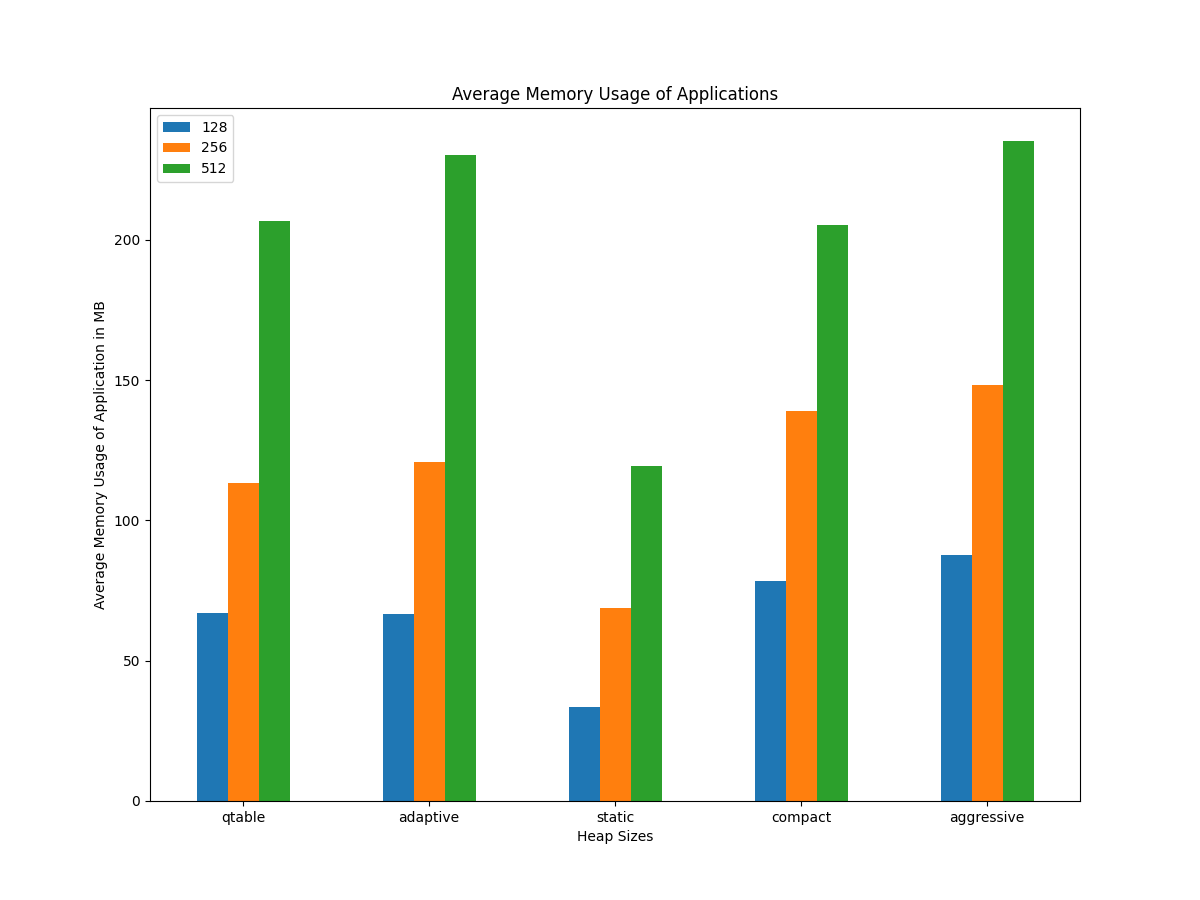
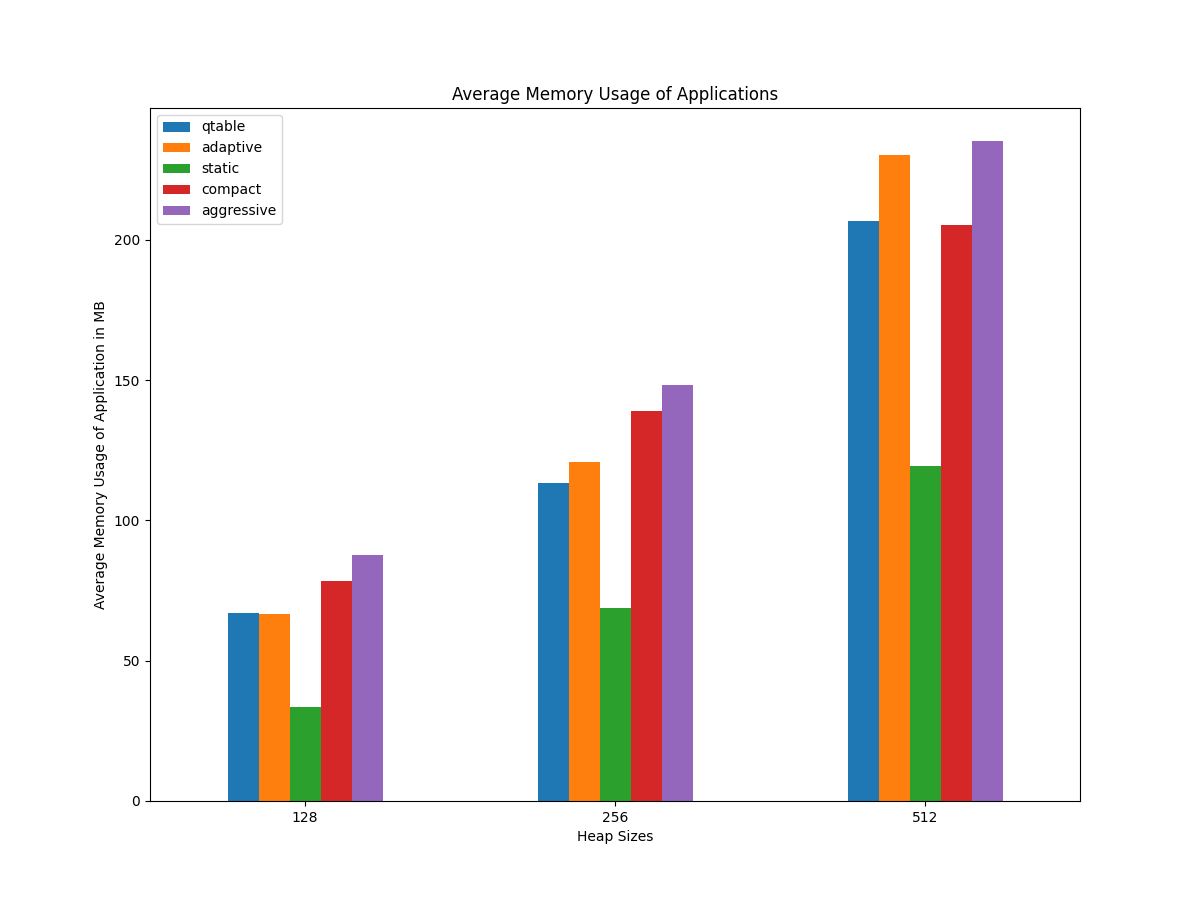
update mem usage plot

Changed region(s): [[0.6167, 0.1556, 0.8633, 0.9333], [0.1233, 0.1244, 0.4008, 0.9333], [0.4317, 0.4044, 0.5858, 0.9333]]

diff --git a/plotting.py b/plotting.py
@@ -104,24 +104,25 @@ def plot_mem_usage():
             cp_results = plot_mem_helper('gc_cp')
         elif h == 'aggressive':
             ag_results = plot_mem_helper('gc_ag')
-
-    final_result = defaultdict(list)
-    sizes = [128, 256, 512]
-    for size in sizes:
-        final_result[size].append(qt_results[size])
-        final_result[size].append(ad_results[size])
-        final_result[size].append(st_results[size])
-        final_result[size].append(cp_results[size])
-        final_result[size].append(ag_results[size])
-    avg_mem_df = pd.DataFrame({'heuristic': ['qtable', 'adaptive', 'static', 'compact', 'aggressive']})
-    for key in final_result.keys():
-        avg_mem_df[key] = final_result[key]
+    
+    avg_mem_df = pd.DataFrame({'sizes': ['128', '256', '512']})
+    for h in heuristics:
+        if h == 'qtable':
+            avg_mem_df[h] = qt_results.values()
+        elif h == 'adaptive':
+            avg_mem_df[h] = ad_results.values()
+        elif h == 'static':
+            avg_mem_df[h] = st_results.values()
+        elif h == 'compact':
+            avg_mem_df[h] = cp_results.values()
+        elif h == 'aggressive':
+            avg_mem_df[h] = ag_results.values()
     print(avg_mem_df.head())
     avg_mem_df.plot.bar(rot=0)
     figure = plt.gcf()
     plt.ylabel('Average Memory Usage of Application in MB')
     plt.xlabel('Heap Sizes')
-    plt.xticks(np.arange(len(heuristics)), heuristics)
+    plt.xticks(np.arange(3), ['128', '256', '512'])
     plt.title('Average Memory Usage of Applications')
     figure.set_size_inches(12, 9)
     plt.savefig('plot/Memory Usage Average.png')
